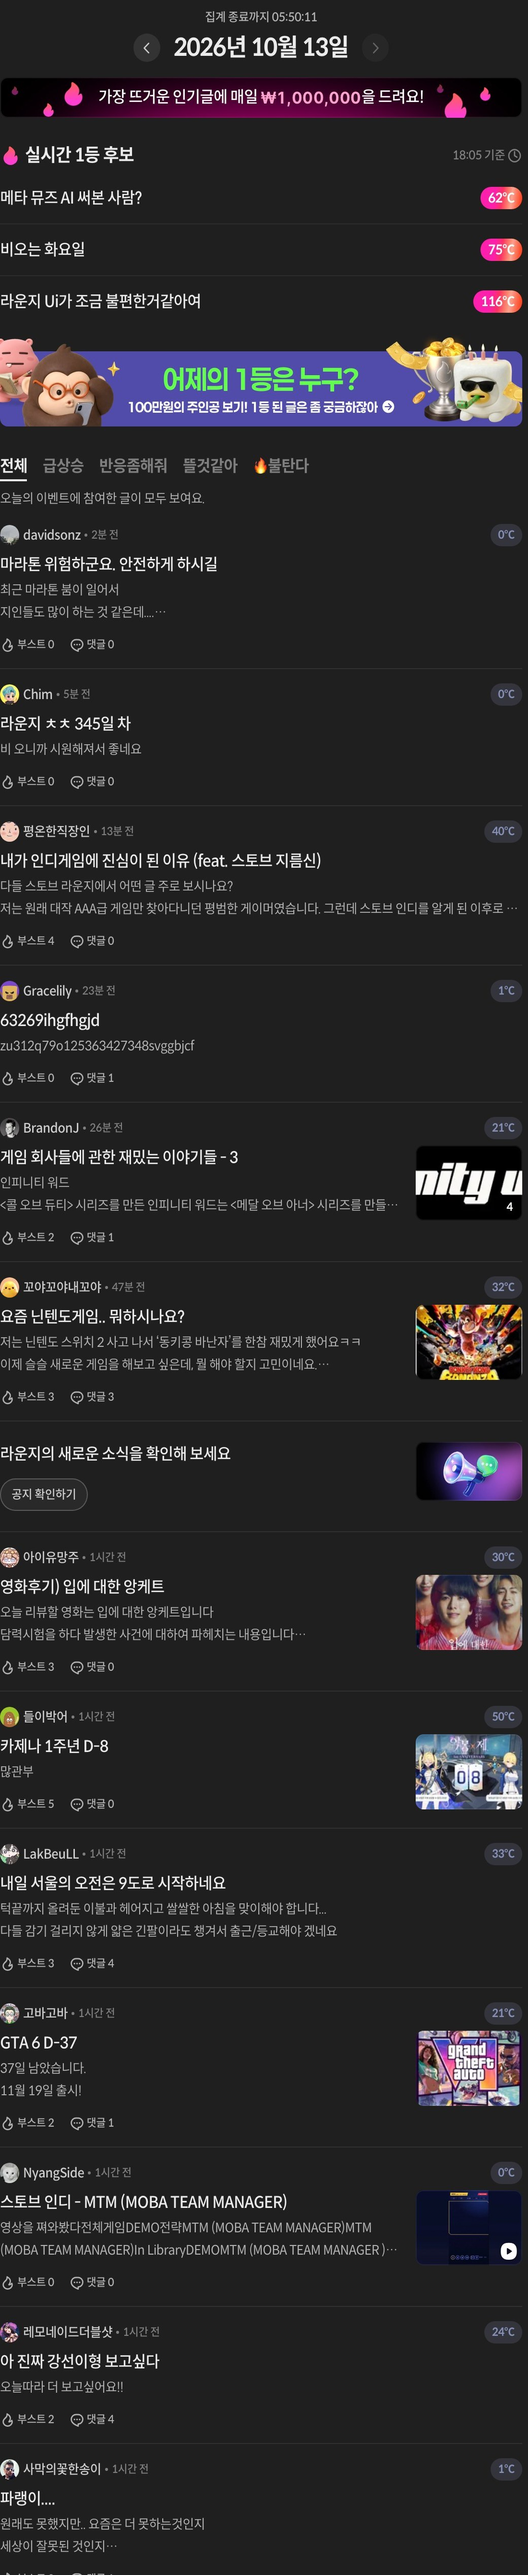
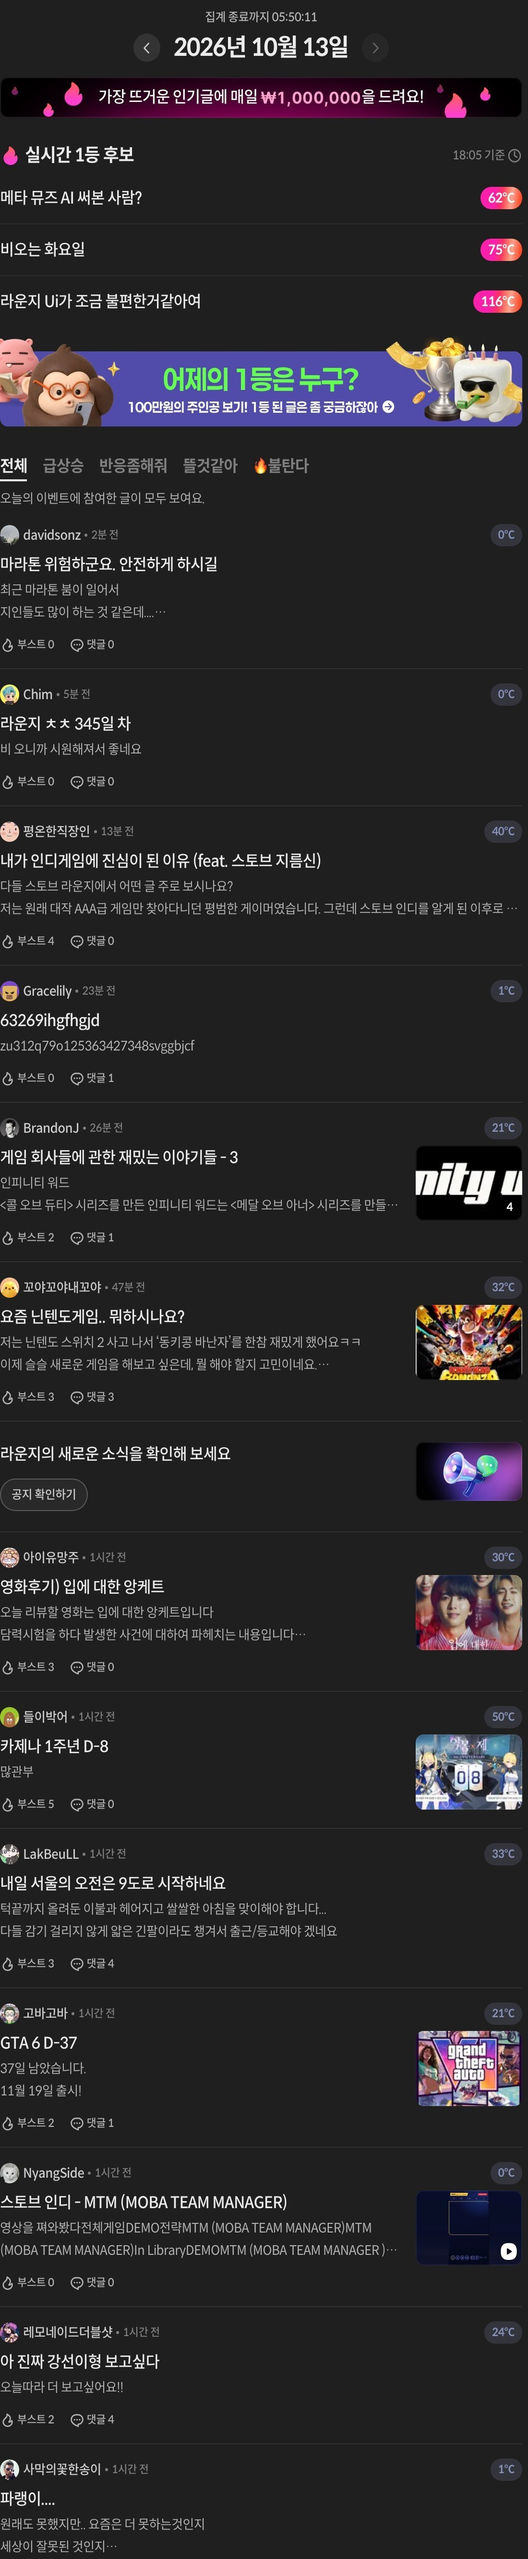
Trim partial trailing row at end of lounge center feed
With the bottom padding removed, the feed's scroll end now lands
exactly on the image's own bottom edge, where a boost/comment row was
half-cut mid-line. Trimmed the asset 32px shorter so it ends cleanly
right after the last complete line instead.

diff --git a/lounge.html b/lounge.html
@@ -59,7 +59,7 @@
     .lounge-col-center { flex: 0 0 auto; margin-left: 5.2rem; }
     .lounge-col-right { flex: 0 0 auto; margin-left: 5.6rem; }
     .lounge-col-left,
-    .lounge-col-right { height: 253.6rem; }
+    .lounge-col-right { height: 252rem; }
     .lounge-col-left img,
     .lounge-col-right img { position: sticky; top: 0; display: block; }
     .lounge-col-left img { width: 6.4rem; }
@@ -91,7 +91,7 @@
         <img src="assets/lounge-left-dark.jpg" alt="" aria-hidden="true" />
       </div>
       <div class="lounge-col-center">
-        <img src="assets/lounge-center-dark.jpg?v=3" alt="STOVE 라운지 (다크모드 미리보기)" />
+        <img src="assets/lounge-center-dark.jpg?v=4" alt="STOVE 라운지 (다크모드 미리보기)" />
       </div>
       <div class="lounge-col-right">
         <img src="assets/lounge-right-dark.jpg?v=2" alt="" aria-hidden="true" />
